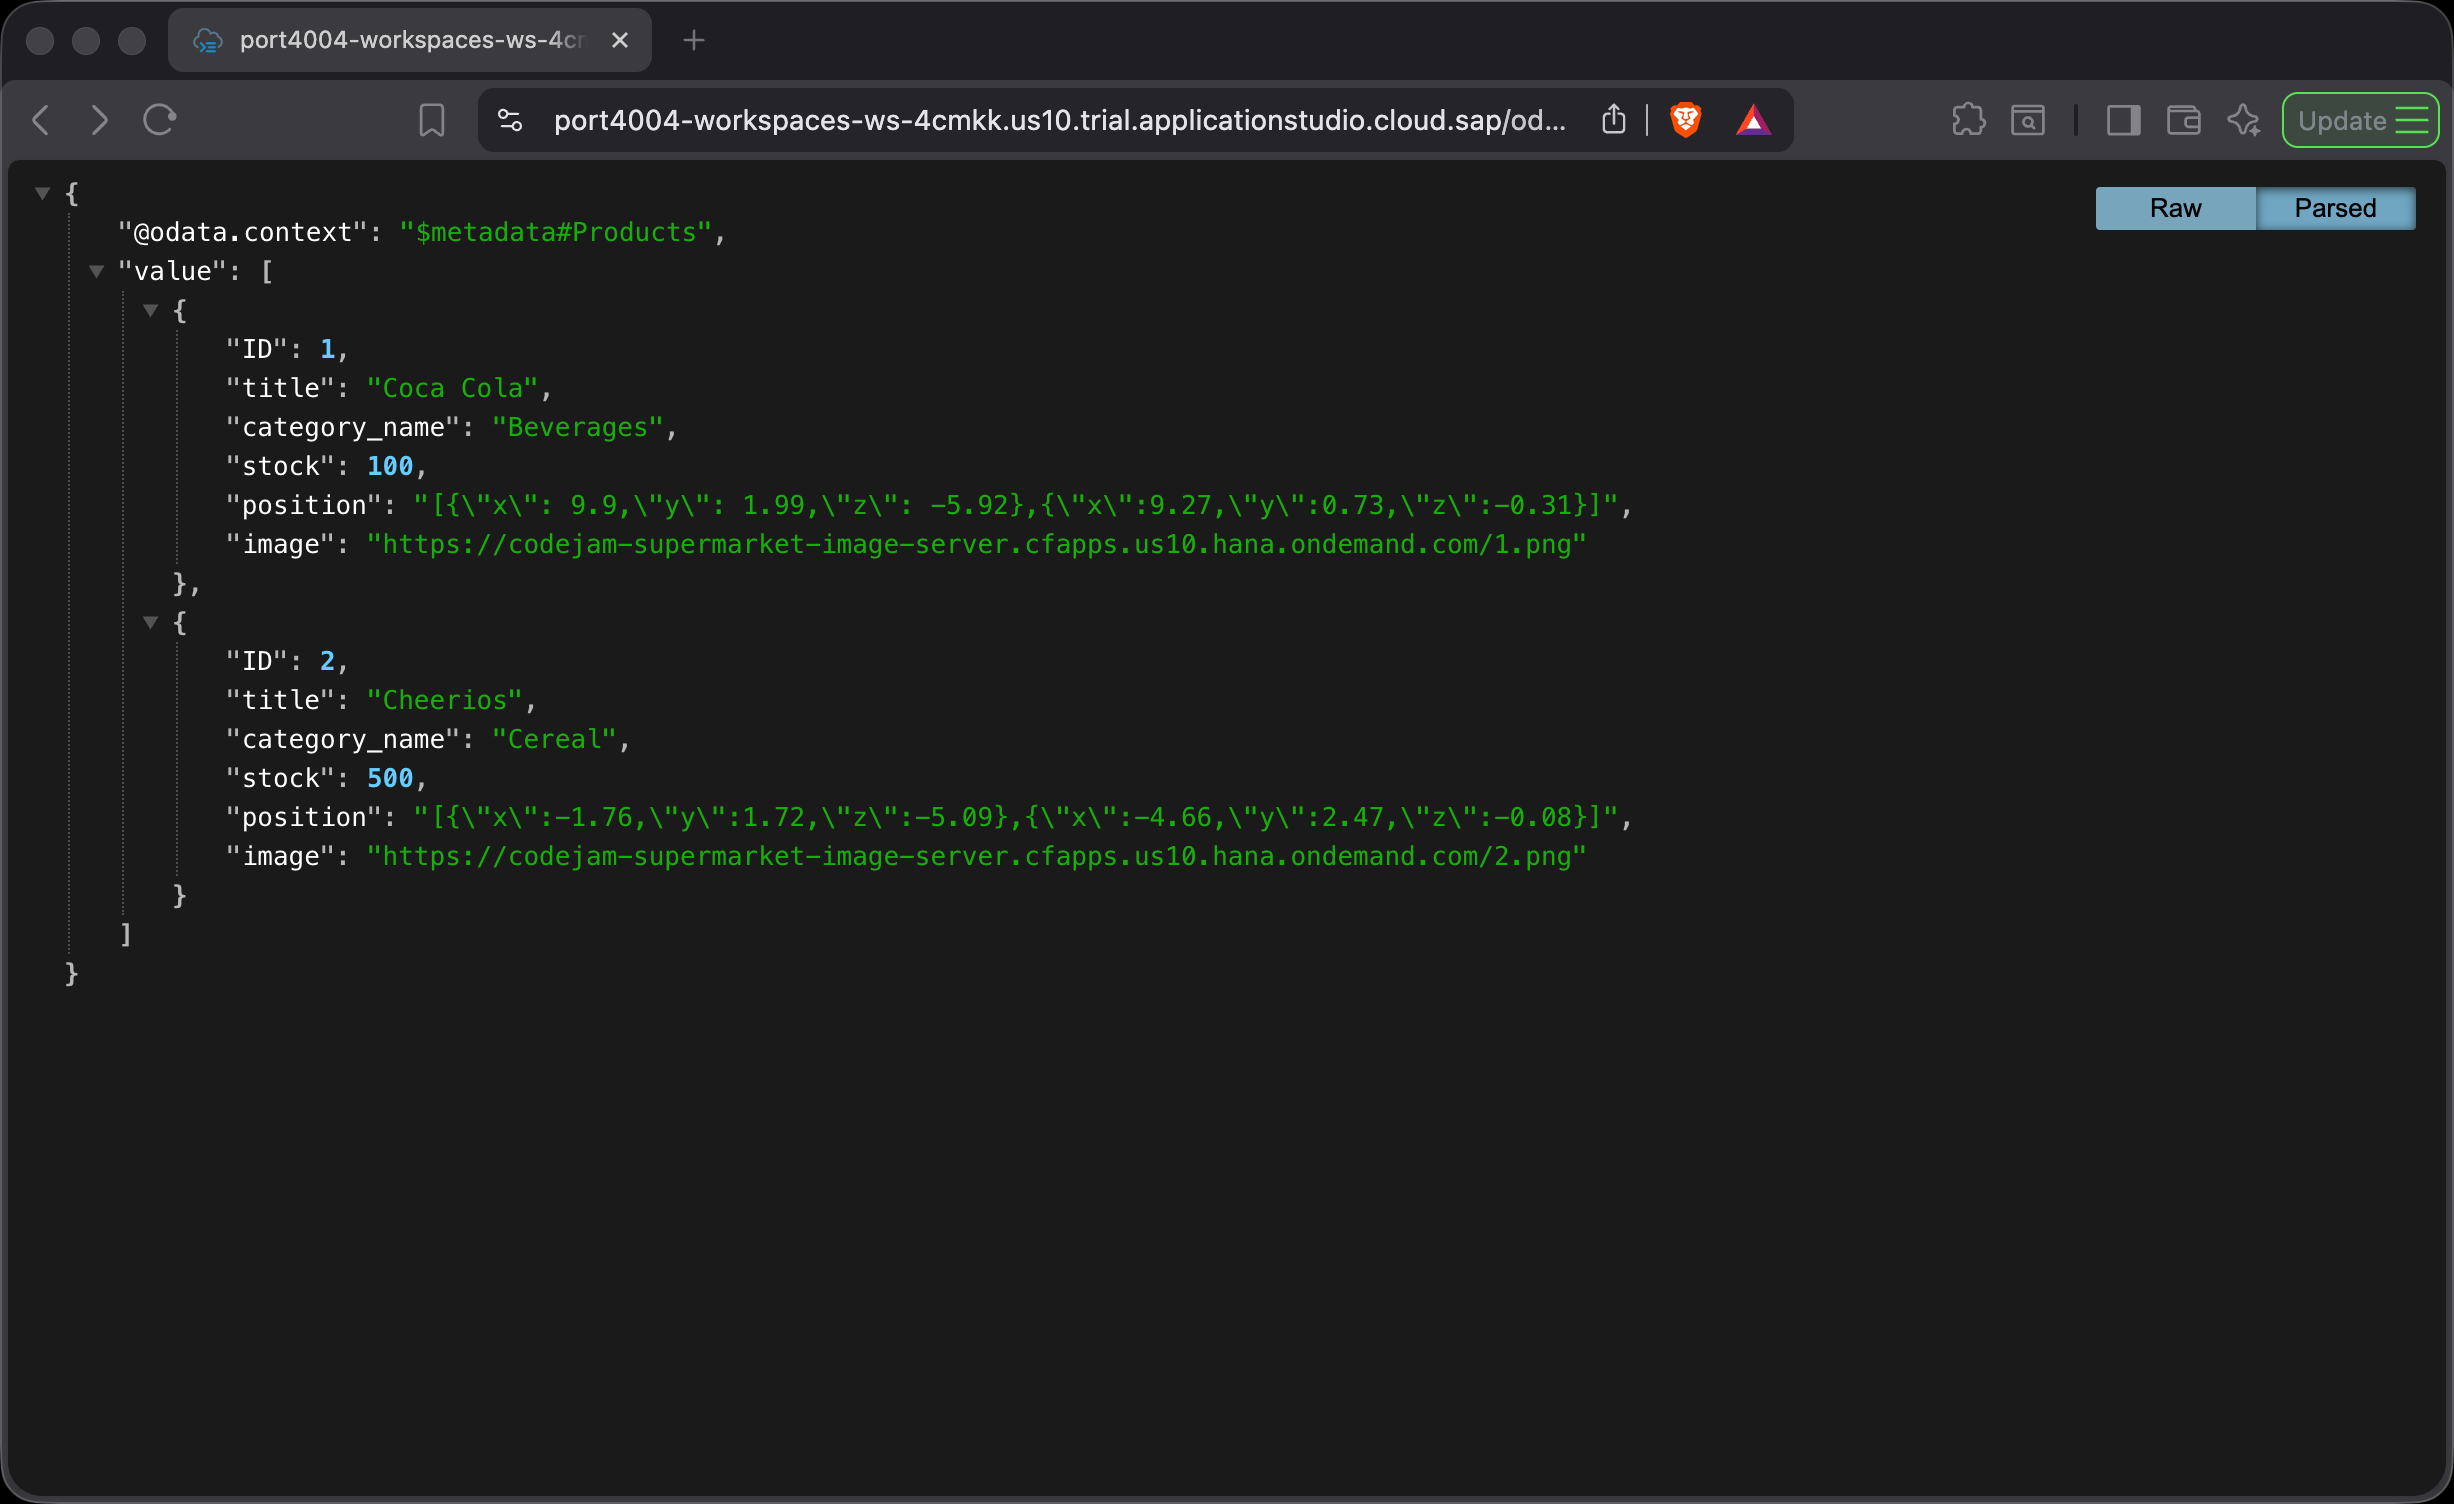
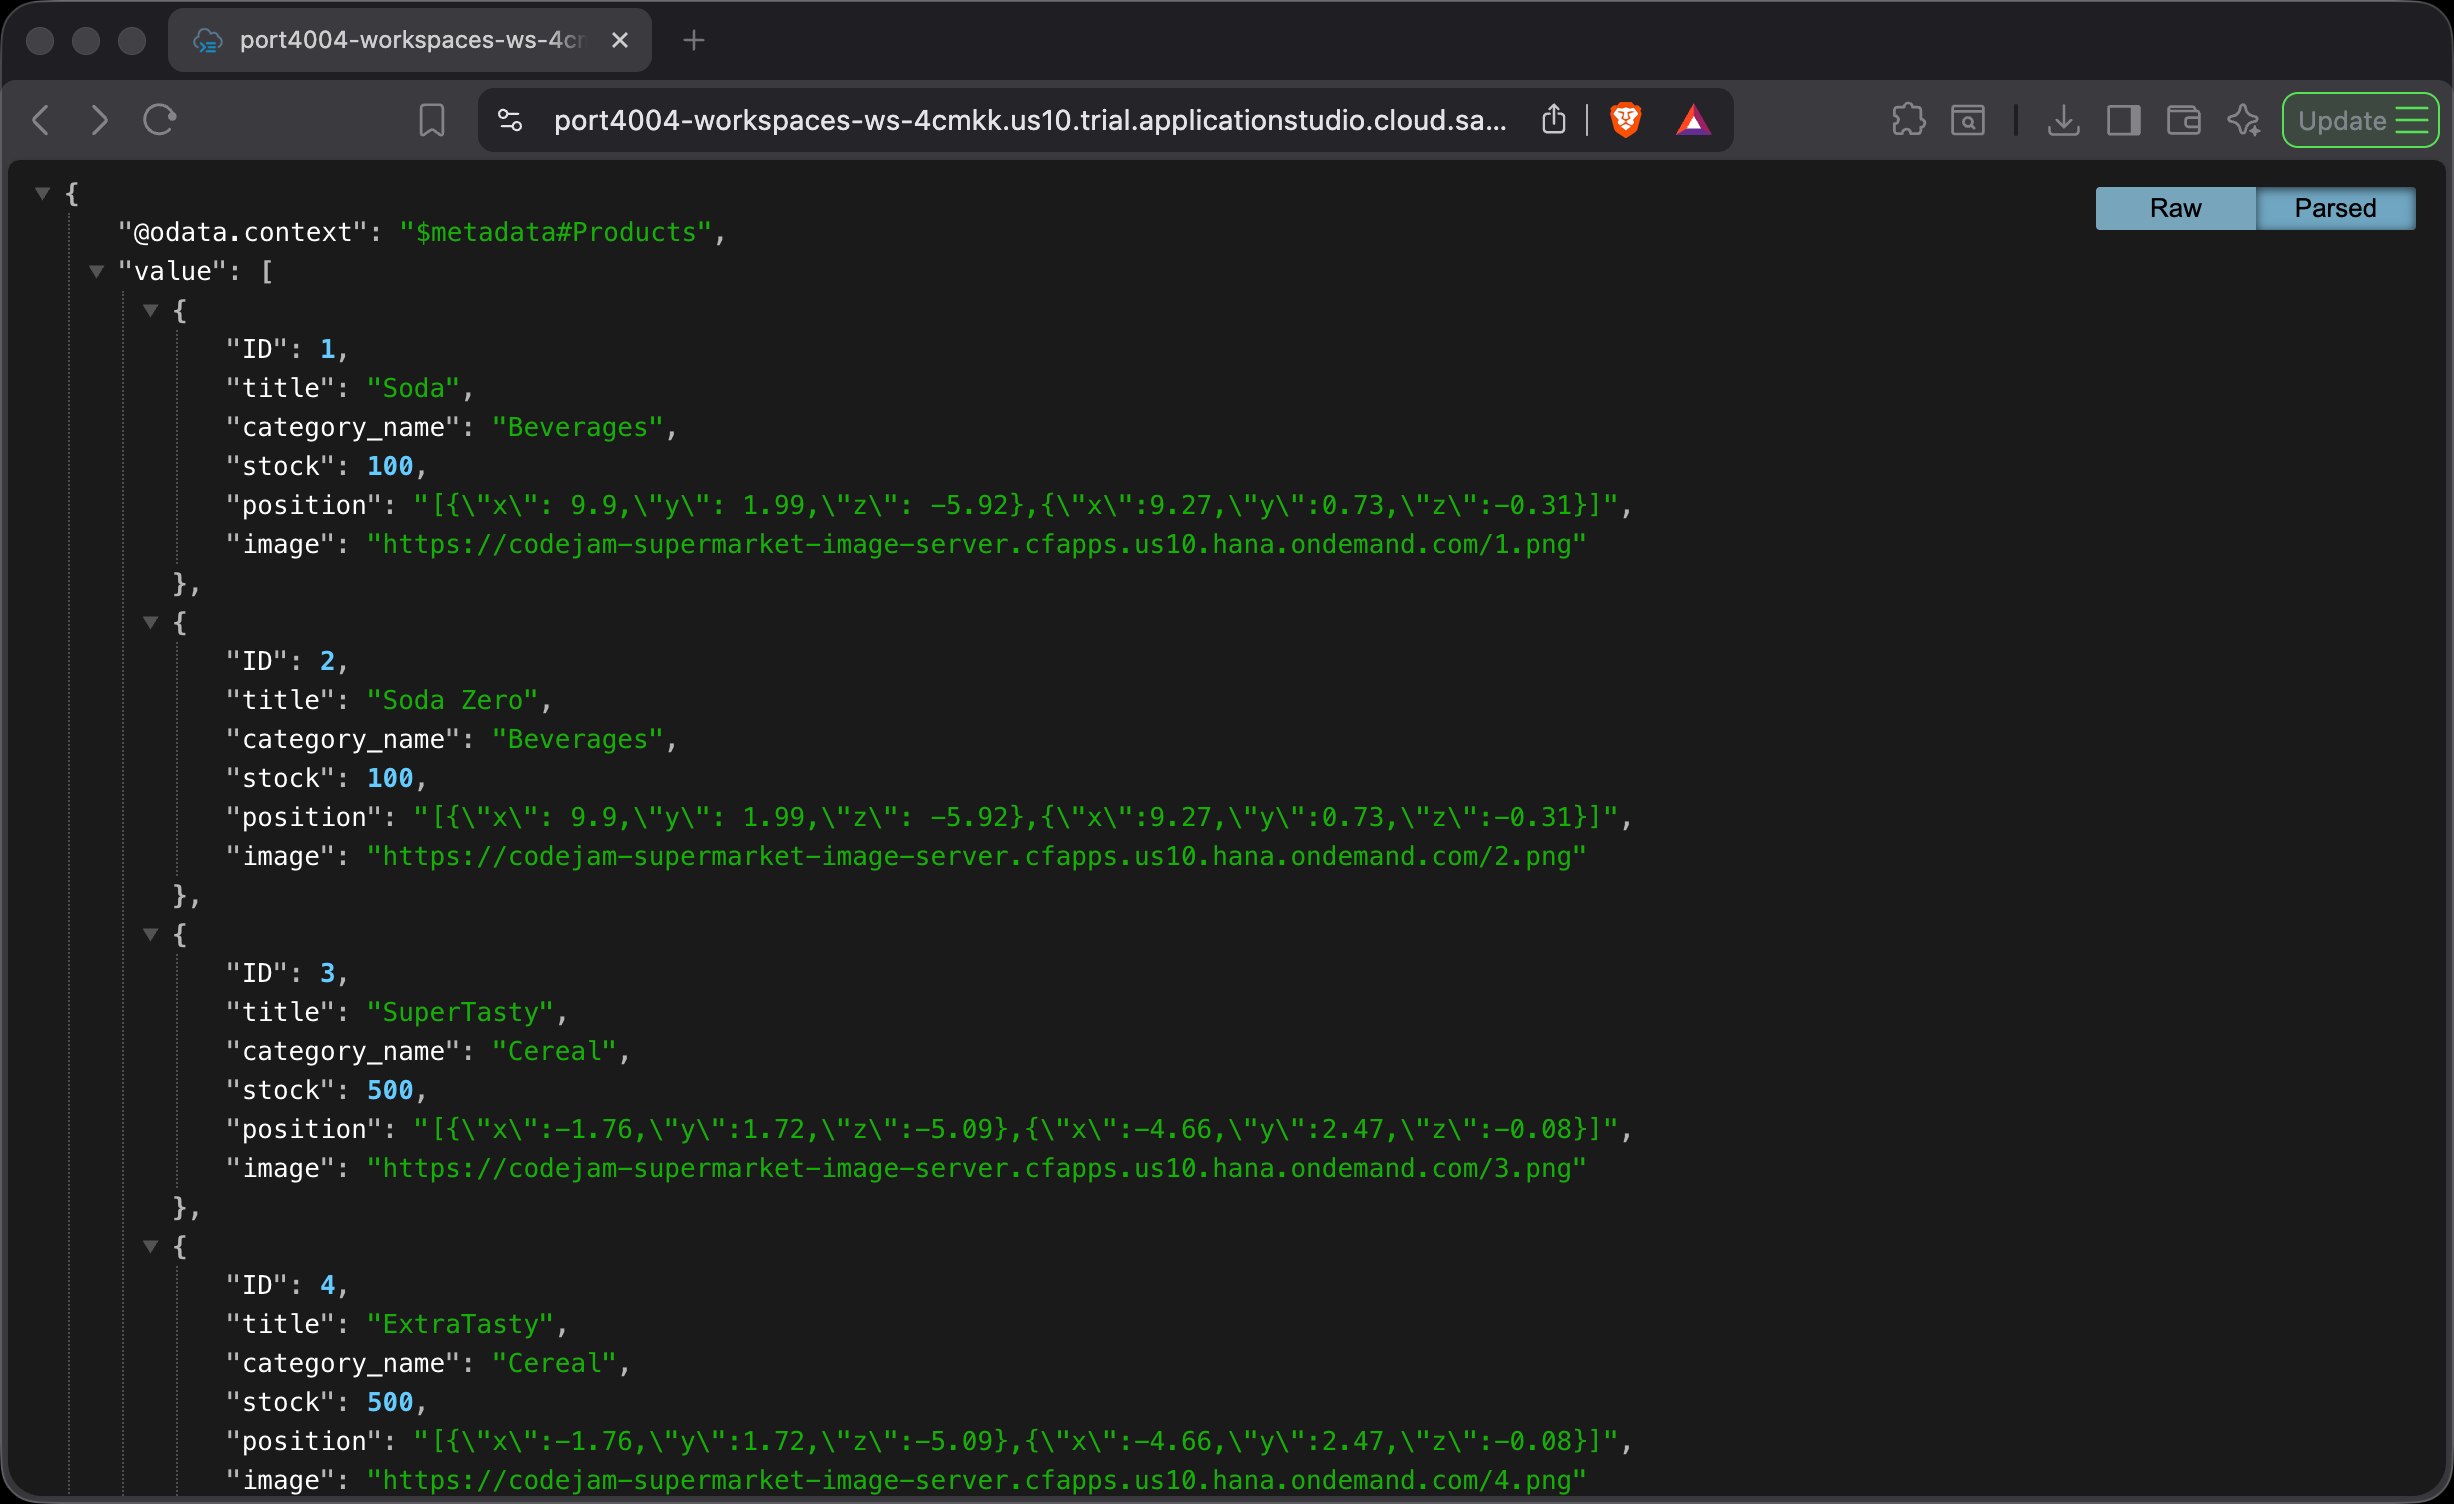
chapter 02 & 03 - new images and sample data

diff --git a/chapters/02-preparing-cap-server/readme.md b/chapters/02-preparing-cap-server/readme.md
@@ -49,8 +49,10 @@ We will add sample data to our CAP server, so that we can test the UI5 app later
 **supermarket-Products.csv**
 ```csv
 ID,title,category_name,stock,position,image
-1,Coca Cola,Beverages,100,"[{""x"": 9.9,""y"": 1.99,""z"": -5.92},{""x"":9.27,""y"":0.73,""z"":-0.31}]",https://codejam-supermarket-image-server.cfapps.us10.hana.ondemand.com/1.png
-2,Cheerios,Cereal,500,"[{""x"":-1.76,""y"":1.72,""z"":-5.09},{""x"":-4.66,""y"":2.47,""z"":-0.08}]",https://codejam-supermarket-image-server.cfapps.us10.hana.ondemand.com/2.png
+1,Soda,Beverages,100,"[{""x"": 9.9,""y"": 1.99,""z"": -5.92},{""x"":9.27,""y"":0.73,""z"":-0.31}]",https://codejam-supermarket-image-server.cfapps.us10.hana.ondemand.com/1.png
+2,Soda Zero,Beverages,100,"[{""x"": 9.9,""y"": 1.99,""z"": -5.92},{""x"":9.27,""y"":0.73,""z"":-0.31}]",https://codejam-supermarket-image-server.cfapps.us10.hana.ondemand.com/2.png
+3,SuperTasty,Cereal,500,"[{""x"":-1.76,""y"":1.72,""z"":-5.09},{""x"":-4.66,""y"":2.47,""z"":-0.08}]",https://codejam-supermarket-image-server.cfapps.us10.hana.ondemand.com/3.png
+4,ExtraTasty,Cereal,500,"[{""x"":-1.76,""y"":1.72,""z"":-5.09},{""x"":-4.66,""y"":2.47,""z"":-0.08}]",https://codejam-supermarket-image-server.cfapps.us10.hana.ondemand.com/4.png
 ```
 
 **supermarket-Categories.csv**